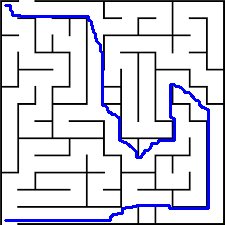
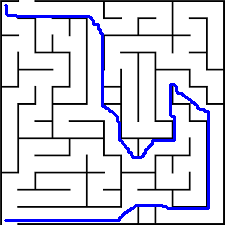
...

diff --git a/course_2_problemset_4/course_2_problemset_4.py b/course_2_problemset_4/course_2_problemset_4.py
@@ -182,6 +182,9 @@ def computeShortestPath( graph, source_coordinates, dest_coordinates):
                         #   5.4.1.1 update `v.d` to `u.d + w`. Set `v.pi` to `u`
                         each_adjacent_node[0].d = min_vertex_object.d + each_adjacent_node[1]
                         each_adjacent_node[0].pi = (min_vertex_object.x, min_vertex_object.y)
+                        temp_each_adjacent_node_in_grap = graph.get_vertex_from_coords(each_adjacent_node[0].x,each_adjacent_node[0].y)
+                        temp_each_adjacent_node_in_grap.d = each_adjacent_node[0].d
+                        temp_each_adjacent_node_in_grap.pi = each_adjacent_node[0].pi
                         # print(f'debug, after update, tuple[0].x = ({each_adjacent_node[0].x}, {each_adjacent_node[0].y}), distance = {each_adjacent_node[0].d}, parent = {each_adjacent_node[0].pi}')
                         # print(f'debug ----')
                 
@@ -229,43 +232,23 @@ def computeShortestPath( graph, source_coordinates, dest_coordinates):
     # print(f'debug - min_verticy = ({min_vertex_object.x}, {min_vertex_object.y}), distance = {min_vertex_object.d},{min_vertex_object.processed}, parent = {min_vertex_object.pi}')
     
     loop_bool = True
-    current_key_x = min_vertex_object.pi[0]
-    current_key_y = min_vertex_object.pi[1]
-    result_path = [(min_vertex_object.pi[0],min_vertex_object.pi[1]), (min_vertex_object.x, min_vertex_object.y)] + result_path
+    current_key_x = min_vertex_object.x
+    current_key_y = min_vertex_object.y
+    result_path = result_path
     while(loop_bool):
-        # print(f'debug - current_key = {current_key}')
-        # # print(f'debug - result_path = {result_path}')
-        # for key in graph.adj_list.keys():
-        #     temp_list = graph.adj_list.get(key)
-        #     # print(f'\n--type of temp = {type(temp_list)}')
-        #     # print(f'--len of temp_list is {len(temp_list)}')
-        #     # print(f'--key = {key}')
-
-        for tuple in graph.get_list_of_neighbors(Vertex(current_key_x,current_key_y)):
-            print(f'------tuple[0].x = {tuple[0].x}')
-            print(f'------tuple[0].y = {tuple[0].y}')
-            print(f'------tuple[0].d = {tuple[0].d}')
-            print(f'------tuple[0].processed = {tuple[0].processed}')
-            print(f'------tuple[0].idx_in_priority_queue = {tuple[0].idx_in_priority_queue}')
-            print(f'------tuple[0].pi (parent) = {tuple[0].pi}')
-            print(f'------tuple[1] (weight) = {tuple[1]}')
-            print(f'------')
-
-
-            if current_key_x == tuple[0].x and current_key_y == tuple[0].y:
-                if tuple[0].pi == None:
-                    loop_bool = False
-                else:
-                    result_path = [(tuple[0].pi)] + result_path
-                    current_key_x = tuple[0].pi[0]
-                    current_key_y = tuple[0].pi[0]
-                    continue
-
+        temp_vertex = graph.get_vertex_from_coords(current_key_x,current_key_y)
+        result_path = [(current_key_x, current_key_y)] + result_path
+        if temp_vertex.pi == None:
+            loop_bool = False
+        else:
+            current_key_x = temp_vertex.pi[0]
+            current_key_y = temp_vertex.pi[1]
 
     #   7. Return the (path, shortest path distance)
     return (result_path,min_vertex_object.d)
 
-# Test 1
+print(f'----------------test 1-------------------------------------')
+# # Test 1
 verts = {(i,j): Vertex(i,j) for i in range(3) for j in range(3)}
 adj_list= {}
 def connect_nodes(src, dest, weight):
@@ -321,13 +304,15 @@ assert(path3[-1] == (0,0))
 
 print('All tests passed: 15 points!')
 
+print(f'----------------test 2-------------------------------------')
+
 img = cv2.imread(directory_path + 'maze.png') # read an image from a file using opencv (cv2) library
 # you can annotate images 
 cv2.circle(img,(5,220), 3, (255,0,0), -1) # add a circle centered at (5, 220) radius 3, color red (RGB: 255,0,0)
 cv2.circle(img, (5,5), 3, (0,0,255), -1) # add a circle centered at (5,5) radius 3, color red (RGB: 0,0,255)
 plt.imshow(img) # show the image on the screen 
 plt.title('Amazing')
-# plt.show()
+plt.show()
 
 img = cv2.imread(directory_path + 'maze.png') # read an image from a file using opencv (cv2) library
 graph = DirectedGraphFromImage(img)
@@ -336,3 +321,39 @@ assert dist <= 78.1, 'Expected shortest path distance must be 78.1'
 assert p[0] == (5,220)
 assert p[-1] == (5,5)
 print('Passed: 10 points!')
+
+drawPath(img, p, 2)
+plt.imshow(img) # show the image on the screen 
+plt.title('Amazing')
+plt.show()
+cv2.imwrite(directory_path + 'maze-solution.png', img)
+
+print(f'----------------test 3-------------------------------------')
+
+
+img = cv2.imread(directory_path + 'maze2.JPG') # read an image from a file using opencv (cv2) library
+cv2.circle(img,(250,470), 10, (255,0,0), -1) # add a circle centered at (600, 70) radius 10, color red (RGB: 255,0,0)
+cv2.circle(img, (20,100), 10, (255,0,0), -1) # add a circle centered at (790,200) radius 10, color red (RGB: 255,0,0)
+plt.imshow(img) # show the image on the screen 
+plt.title('Amazing 2')
+# plt.show()
+
+img = cv2.imread(directory_path + 'maze2.JPG') # read an image from a file using opencv (cv2) library
+p, dist = computeShortestPath(DirectedGraphFromImage(img), (250,470), (20,100))
+assert dist <= 120.0
+assert p[0] == (250, 470)
+assert p[-1] == (20,100)
+print('Passed: 10 points!')
+
+# drawPath(img,p)
+# plt.imshow(img) # show the image on the screen 
+# plt.title('Amazing2')
+# plt.show()
+
+img = cv2.imread(directory_path + 'maze3.JPG')
+cv2.circle(img,(70,1750), 15, (255,0,0), -1) # add a circle centered at (600, 70) radius 10, color red (RGB: 255,0,0)
+cv2.circle(img, (900,500), 15, (0,255,255), -1) # add a circle centered at (790,200) radius 10, color red (RGB: 255,0,0)
+plt.imshow(img) # show the image on the screen 
+plt.title('Amazing 3')
+plt.show()
+
